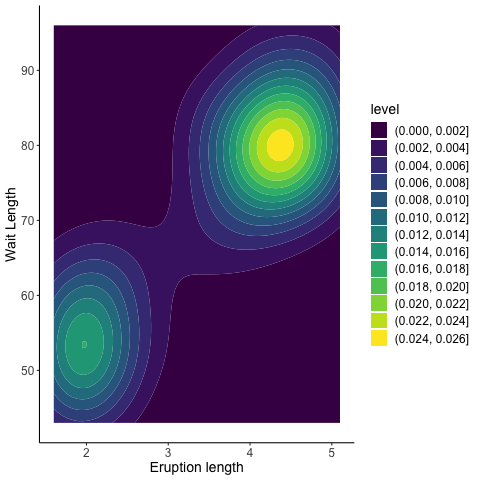
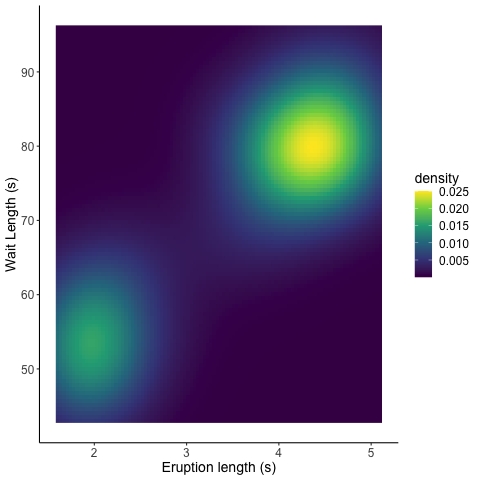
added 2D density plots, and inverted axis

diff --git a/README.md b/README.md
@@ -112,7 +112,7 @@ Each
 geom_point(), geom_count(), geom_dot() ?, geom_rugplot()
 
 ## 2DDensity plots and heatmaps
-geom_bin_2d(), geom_tile(), geom_contour(), geom_countour_filled(), geom_hex()
+geom_bin_2d(), geom_tile(), geom_contour(), geom_countour_filled(), geom_hex(), stat_density_2d
 
 ## Density plots and histograms
 geom_density(), geom_freqpoly() ?, geom_histogram()
